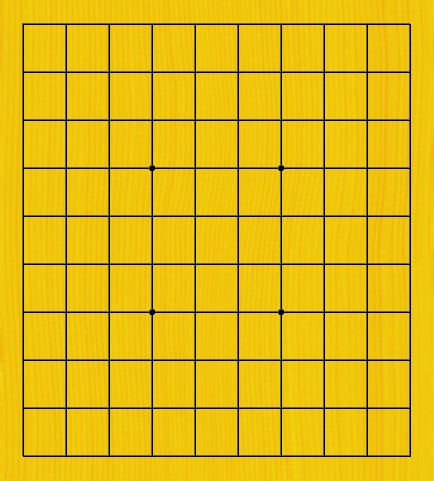
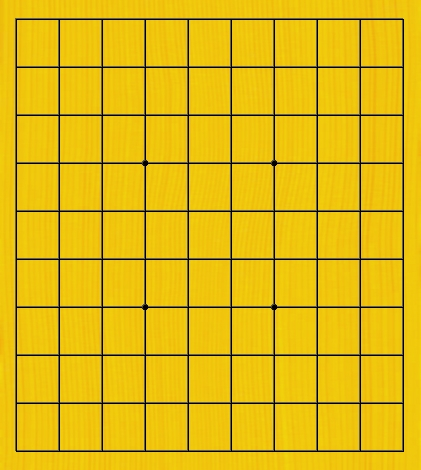
Ragnarok.Presentation.Shogi/Resources/Image/ban: 盤上下左右の余白を狭くし、符号の文字サイズを小さくしました。 Ragnarok.Presentation.Shogi/View/ShogiControl.xaml: 符号の文字サイズを小さくしました。 Ragnarok.Presentation/DialogUtil.cs: TimeSpanを取得するためのダイアログのサポートを追加しました。

Changed region(s): [[0.0309, 0.0298, 0.9881, 0.983]]

diff --git a/Ragnarok.Presentation.Shogi/View/ShogiControl.xaml b/Ragnarok.Presentation.Shogi/View/ShogiControl.xaml
@@ -25,7 +25,7 @@
                     <TextBlock Text="{Binding}"
                                HorizontalAlignment="Center"
                                VerticalAlignment="Center"
-                               Margin="2,0,2,0"/>
+                               Margin="2,-1,2,-1"/>
                 </Viewbox>
             </DataTemplate>
 
@@ -86,14 +86,14 @@
                   Width="100" Height="100"
                   Background="Transparent">
                 <Grid.RowDefinitions>
-                    <RowDefinition Height="5*" />
+                    <RowDefinition Height="4*" />
                     <RowDefinition Height="90*" />
-                    <RowDefinition Height="5*" />
+                    <RowDefinition Height="4*" />
                 </Grid.RowDefinitions>
                 <Grid.ColumnDefinitions>
-                    <ColumnDefinition Width="5*" />
+                    <ColumnDefinition Width="4*" />
                     <ColumnDefinition Width="90*" />
-                    <ColumnDefinition Width="5*" />
+                    <ColumnDefinition Width="4*" />
                 </Grid.ColumnDefinitions>
 
                 <!-- 段と列の数字を表示します。-->

diff --git a/Ragnarok.Presentation.Shogi/Xaml/TebanMeshConverter.cs b/Ragnarok.Presentation.Shogi/Xaml/TebanMeshConverter.cs
@@ -23,11 +23,11 @@ namespace Ragnarok.Presentation.Shogi.Xaml
         public object Convert(object value, Type targetType,
                               object parameter, CultureInfo culture)
         {
-            // マスの数９×マスのサイズ(1.0)＋左右の幅(0.5 * 2) = 10.0
+            // マスの数９×マスのサイズ(1.0)＋左右の幅(0.4 * 2) = 9.8
             var points = new Point3DCollection();
             var indices = new Int32Collection();
             var bwType = (BWType)value;
-            var w = 0.5 / 9.0;
+            var w = 0.4 / 9.0;
             var h = 9.0 / 9.0;
             var t0 = h * 0.5;
             var t1 = h * 0.8;
@@ -40,9 +40,6 @@ namespace Ragnarok.Presentation.Shogi.Xaml
                 new Rect(1.0, t0, w, t1 - t0),
                 new Rect(1.0, t1, w, h - t1 + w),
 
-                /*new Rect(h / 5, 1.0, h * 3 / 5, w),
-                new Rect(0,     1.0, h / 5, w),
-                new Rect(h * 4 / 5, 1.0, h / 5, w),*/
                 new Rect(0, 1.0, h, w),
             };
 
@@ -61,10 +58,6 @@ namespace Ragnarok.Presentation.Shogi.Xaml
 
                 new Point(1, 0.0), new Point(1, 0.0),
                 new Point(1, 0.5), new Point(1, 0.5),
-                /*new Point(1, 0.0), new Point(1, 0.0),
-                new Point(1, 0.5), new Point(1, 0.5),
-                new Point(1, 0.0), new Point(1, 0.0),
-                new Point(1, 0.5), new Point(1, 0.5),*/
             };
 
             foreach (var rect in rectList)

diff --git a/Ragnarok.Presentation.Shogi/View/ShogiControl.xaml.cs b/Ragnarok.Presentation.Shogi/View/ShogiControl.xaml.cs
@@ -1523,16 +1523,19 @@ namespace Ragnarok.Presentation.Shogi.View
         /// </summary>
         private void Control_Loaded(object sender, RoutedEventArgs e)
         {
+            // 各マスに対する上下左右の余白の比です。
+            var BanBorderRate = 0.4;
+
             // 各マスのサイズを設定します。
             var bounds = this.banGeometry.Bounds;
 
             // 駒の表示サイズなどを計算します。
             CellSize = new Size(
-                bounds.SizeX / (Board.BoardSize + 1),
-                bounds.SizeY / (Board.BoardSize + 1));
+                bounds.SizeX / (Board.BoardSize + BanBorderRate * 2),
+                bounds.SizeY / (Board.BoardSize + BanBorderRate * 2));
             BanBounds = new Rect(
-                bounds.X + CellSize.Width / 2.0,
-                bounds.Y + CellSize.Height / 2.0,
+                bounds.X + CellSize.Width * BanBorderRate,
+                bounds.Y + CellSize.Height * BanBorderRate,
                 CellSize.Width * Board.BoardSize,
                 CellSize.Height * Board.BoardSize);
 

diff --git a/Ragnarok.Presentation/DialogUtil.cs b/Ragnarok.Presentation/DialogUtil.cs
@@ -292,6 +292,32 @@ namespace Ragnarok.Presentation
             ShowErrorInternal(text);
         }
 
+        #region TimeSpan
+        /// <summary>
+        /// ダイアログから時間間隔を取得します。
+        /// </summary>
+        public static TimeSpan? ShowTimeSpanDialog(TimeSpan defaultValue)
+        {
+            // 時間間隔をウィンドウから取得します。
+            var window = new TimeSpanWindow(defaultValue);
+            var result = window.ShowDialogCenterMouse();
+            if (result == null || !result.Value)
+            {
+                return null;
+            }
+
+            return window.Value;
+        }
+
+        /// <summary>
+        /// ダイアログから時間間隔を取得します。
+        /// </summary>
+        public static TimeSpan? ShowTimeSpanDialog()
+        {
+            return ShowTimeSpanDialog(TimeSpan.Zero);
+        }
+        #endregion
+
         #region フォント
         /// <summary>
         /// Drawing.FontからFontInfoに変換します。
